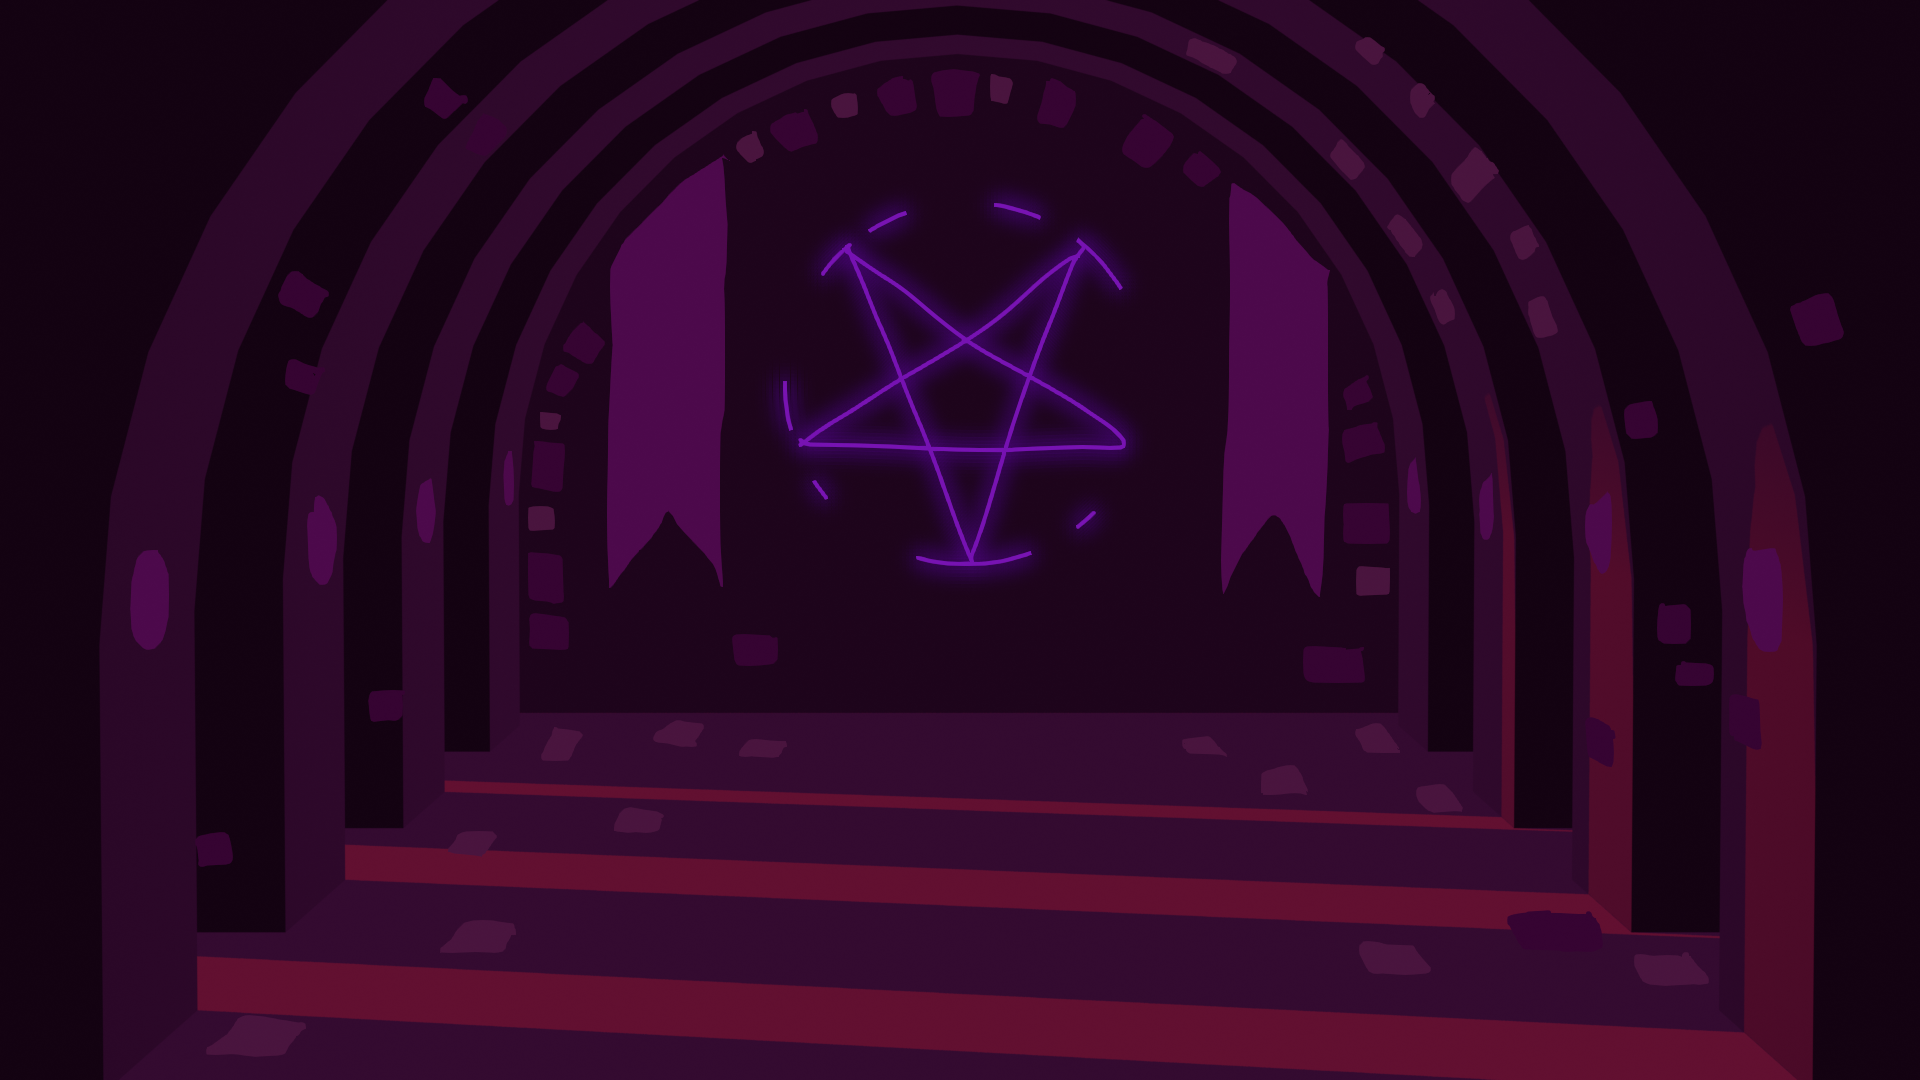
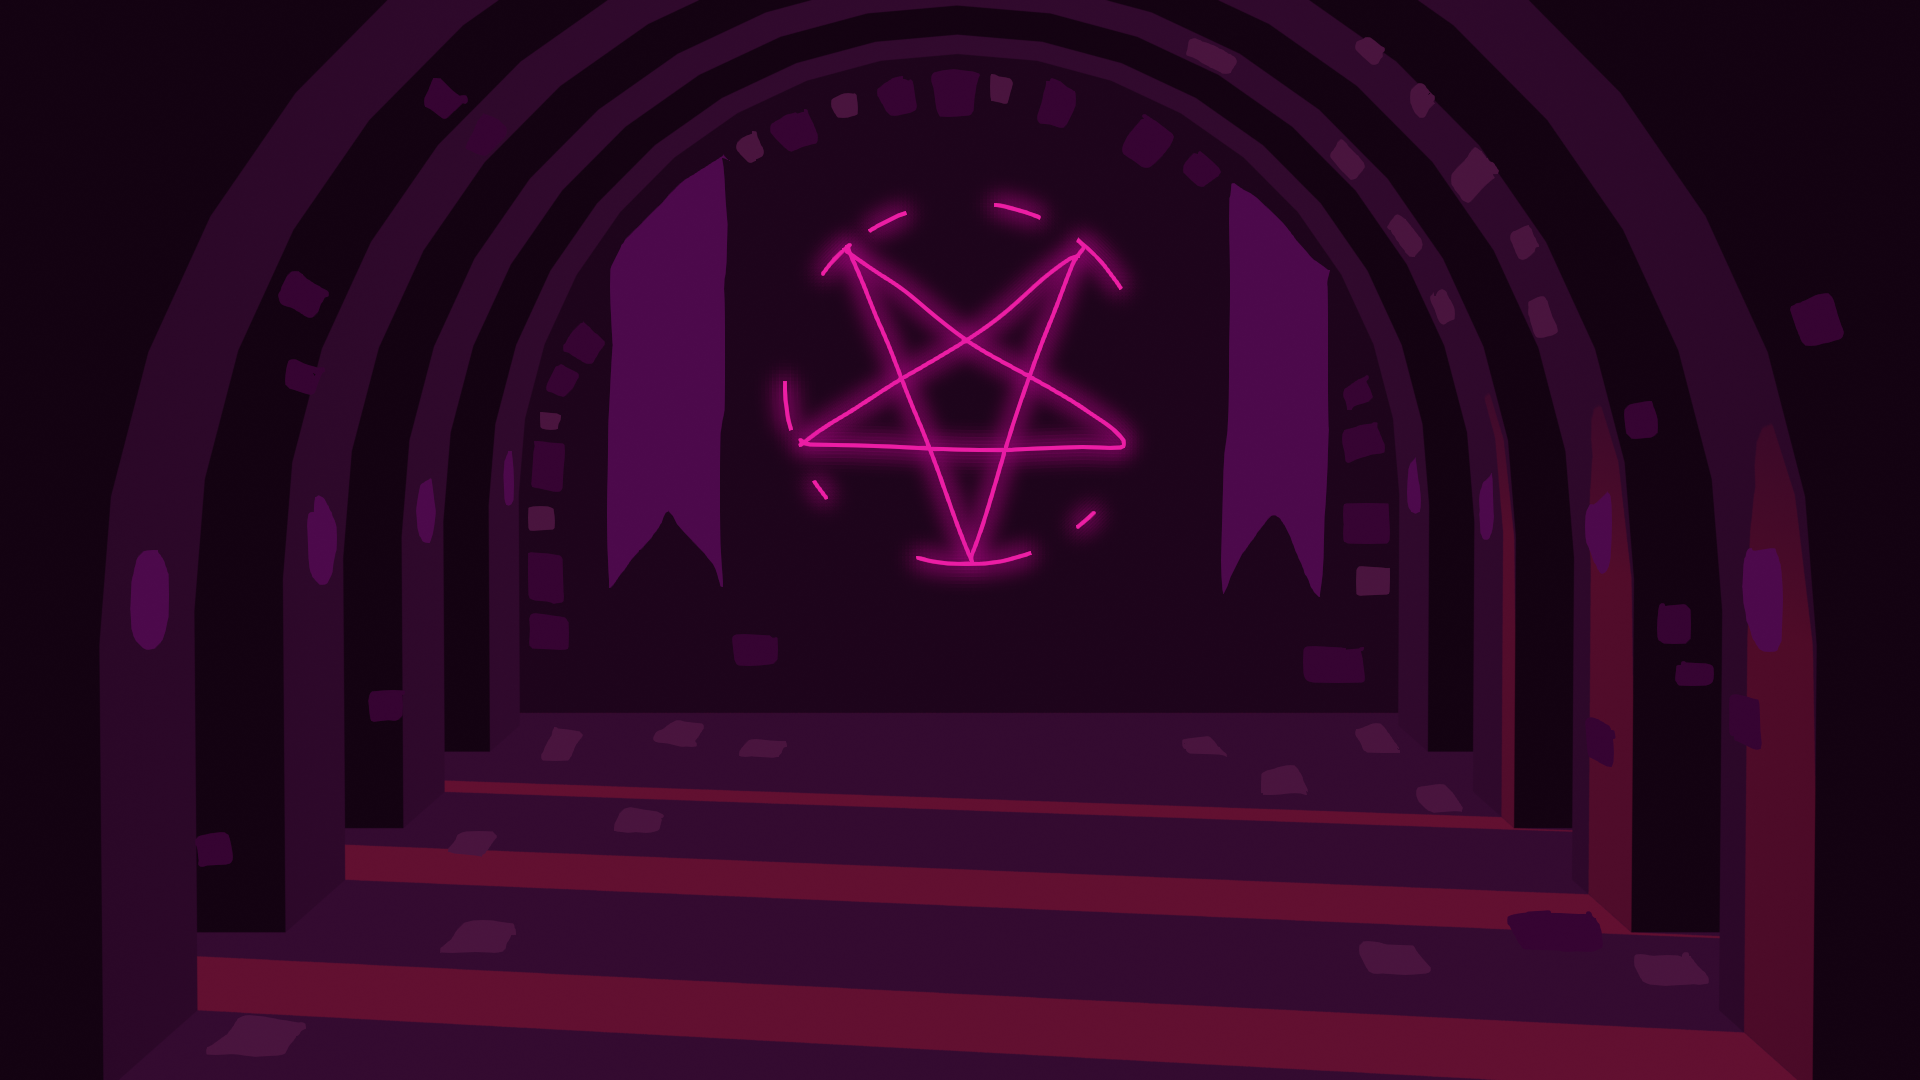
ritual gfx

Changed region(s): [[0.375, 0.1833, 0.5938, 0.55], [0.5625, 0.4583, 0.5938, 0.4889]]

diff --git a/src/ritual.ts b/src/ritual.ts
@@ -1,9 +1,10 @@
-import { Assets, Container, Sprite } from "pixi.js";
+import { Assets, Container, Graphics, Sprite } from "pixi.js";
 import { game, scene, UpdateOrder } from "./game";
 import { Inventory, ItemType } from "./inventory";
 import { TimeManager } from "./timeManager";
 import { createHomeSign } from "./home";
 import { Room } from "./room";
+import { randomRange } from "./utils";
 
 export class Ritual extends Room {
     container: Container;
@@ -12,6 +13,7 @@ export class Ritual extends Room {
     itemSprite: Sprite;
     itemHeld?: ItemType;
     static instance?: Ritual;
+    graphics: Graphics
 
     get inventory() {
         return scene.getFirst<Inventory>(Inventory)!;
@@ -21,18 +23,19 @@ export class Ritual extends Room {
         Ritual.instance = this;
 
         this.container = new Container();
-
+        this.graphics = new Graphics();
         this.itemSprite = new Sprite();
         this.itemSprite.anchor.set(0.5);
         this.container.addChild(this.itemSprite);
 
-        this.itemStand = new Sprite(Assets.get("light"));
+        this.itemStand = new Sprite(Assets.get("ritual-ritual_circle"));
         this.itemStand.anchor.set(0.5);
         this.itemStand.interactive = true;
         this.itemStand.on("pointerdown", () => {
             this.itemSelectedCallback(ItemType.summoningPotion);
         })
         this.container.addChild(this.itemStand);
+        this.container.addChild(this.graphics);
         scene.add(Ritual, this);
         game.app.stage.addChild(this.container);
 
@@ -40,7 +43,8 @@ export class Ritual extends Room {
             const angle = index * Math.PI * 2 / 6;
             const candle = new RitualCandle(this);
             candle.container.x = 300 * Math.cos(angle);
-            candle.container.y = 100 * Math.sin(angle);
+            candle.container.y = 150 * Math.sin(angle);
+            candle.container.scale = (Math.sin(angle) * 0.5 + 0.5) * .8 + .7;
             this.candles.push(candle);
         }
 
@@ -60,7 +64,7 @@ export class Ritual extends Room {
         this.itemHeld = undefined;
 
         for (const candle of this.candles) {
-            TimeManager.wait(1000 * Math.random()).then(() => candle.isLit = false);
+            TimeManager.wait(1000 * Math.random()).then(() => candle.setLit(false));
         }
     }
 
@@ -74,9 +78,27 @@ export class Ritual extends Room {
         this.container.visible = false;
         super.hide();
     }
-    
+
     update() {
-        this.container.position.set(game.width / 2, game.height - 100);
+        this.graphics.clear();
+        this.container.position.set(game.width / 2, game.height - 200);
+        for (let i = 0; i < this.candles.length; i++) {
+            const candle = this.candles[i];
+            candle.update();
+            if (candle.isLit) {
+                for (const j of [(i - 2 % this.candles.length + this.candles.length) % this.candles.length, (i + 2 % this.candles.length + this.candles.length) % this.candles.length]) {
+                    const otherCandle = this.candles[j];
+                    if (otherCandle.isLit) {
+                        const scaleX = .7;
+                        const scaleY = .5;
+                        const offsetY = -7;
+                        this.graphics.moveTo(candle.container.x * scaleX, candle.container.y * scaleY + offsetY);
+                        this.graphics.lineTo(otherCandle.container.x * scaleX, otherCandle.container.y * scaleY + offsetY);
+                        this.graphics.stroke({ width: 2, color: 0xff00ff });
+                    }
+                }
+            }
+        }
         super.update();
     }
 
@@ -105,30 +127,60 @@ export class Ritual extends Room {
 export class RitualCandle {
     container: Container;
     sprite: Sprite;
+    light: Sprite;
     isLit = false;
+    offset = randomRange(0, 5);
     constructor(ritual: Ritual) {
         this.container = new Container();
+        this.light = new Sprite(Assets.get("light"));
+        this.light.anchor.set(0.5);
+        this.light.scale = 2;
+        this.light.alpha = .2;
+        this.light.tint = 0xff00ff;
+        this.light.blendMode = "add";
         this.sprite = new Sprite(Assets.get("ritual-candle_unlit"));
         scene.add(RitualCandle, this);
         this.container.addChild(this.sprite);
+        this.container.addChild(this.light);
         ritual.container.addChild(this.container);
         this.sprite.scale.set(0.5);
-        this.sprite.anchor.set(0.5);
+        this.sprite.anchor.set(0.5, .75);
 
-        this.container.interactive = true;
-        this.container.on("pointerdown", () => {
+        this.sprite.interactive = true;
+        this.sprite.on("pointerdown", () => {
             this.setLit(!this.isLit);
             ritual.checkConditions();
         });
+        this.sprite.on("pointerenter", () => {
+            this.hover(true);
+        });
+        this.sprite.on("pointerleave", () => {
+            this.hover(false);
+        })
+        this.setLit(false);
+        this.hover(false);
     }
 
     setLit(state: boolean) {
         this.isLit = state;
         this.sprite.texture = this.isLit ? Assets.get("ritual-candle_lit") : Assets.get("ritual-candle_unlit");
+        this.sprite.tint = this.isLit ? 0xffffff : 0x996699;
+        this.light.visible = this.isLit;
+    }
+
+    hover(enter: boolean) {
+        if (!this.isLit) {
+            this.sprite.tint = enter ? 0xaa88aa : 0x885588;
+        }
     }
 
     destroy() {
         this.container.destroy();
         scene.remove(RitualCandle, this);
+    }
+
+    update() {
+        this.offset += 1 * game.dt;
+        this.light.scale = Math.sin(this.offset * 2) * .5 + 2;
     }
 }

diff --git a/src/style/symbols.css b/src/style/symbols.css
@@ -1,0 +1,48 @@
+.s0, .s1, .s2, .s3, .s4 {
+    display: inline-block;
+    height: 1lh;
+    width: 1lh;
+    background-size: contain;
+    transform: translateY(0.25lh);
+    margin-top: -0.25lh;
+}
+
+.s0 {
+    background-image: url("img/symbols/white/0.png");
+}
+
+.s1 {
+    background-image: url("img/symbols/white/1.png");
+}
+
+.s2 {
+    background-image: url("img/symbols/white/2.png");
+}
+
+.s3 {
+    background-image: url("img/symbols/white/3.png");
+}
+
+.s4 {
+    background-image: url("img/symbols/white/4.png");
+}
+
+.notebook-page .s0 {
+    background-image: url("img/symbols/black/0.png");
+}
+
+.notebook-page .s1 {
+    background-image: url("img/symbols/black/1.png");
+}
+
+.notebook-page .s2 {
+    background-image: url("img/symbols/black/2.png");
+}
+
+.notebook-page .s3 {
+    background-image: url("img/symbols/black/3.png");
+}
+
+.notebook-page .s4 {
+    background-image: url("img/symbols/black/4.png");
+}

diff --git a/src/style/style.css b/src/style/style.css
@@ -34,29 +34,3 @@ body {
     filter: brightness(1.8);
 }
 
-.s0, .s1, .s2, .s3, .s4 {
-    display: inline-block;
-    height: 1lh;
-    width: 1lh;
-    background-size: contain;
-}
-
-.s0 {
-    background-image: url("img/ball/symbol_0.png");
-}
-
-.s1 {
-    background-image: url("img/ball/symbol_1.png");
-}
-
-.s2 {
-    background-image: url("img/ball/symbol_2.png");
-}
-
-.s3 {
-    background-image: url("img/ball/symbol_3.png");
-}
-
-.s4 {
-    background-image: url("img/ball/symbol_4.png");
-}

diff --git a/src/main.ts b/src/main.ts
@@ -5,6 +5,7 @@ import soundBundle from "./bundle_sound.json";
 import "./style/style.css";
 import "./style/notebook.css";
 import "./style/chat.css";
+import "./style/symbols.css";
 import { sound } from "@pixi/sound";
 
 
